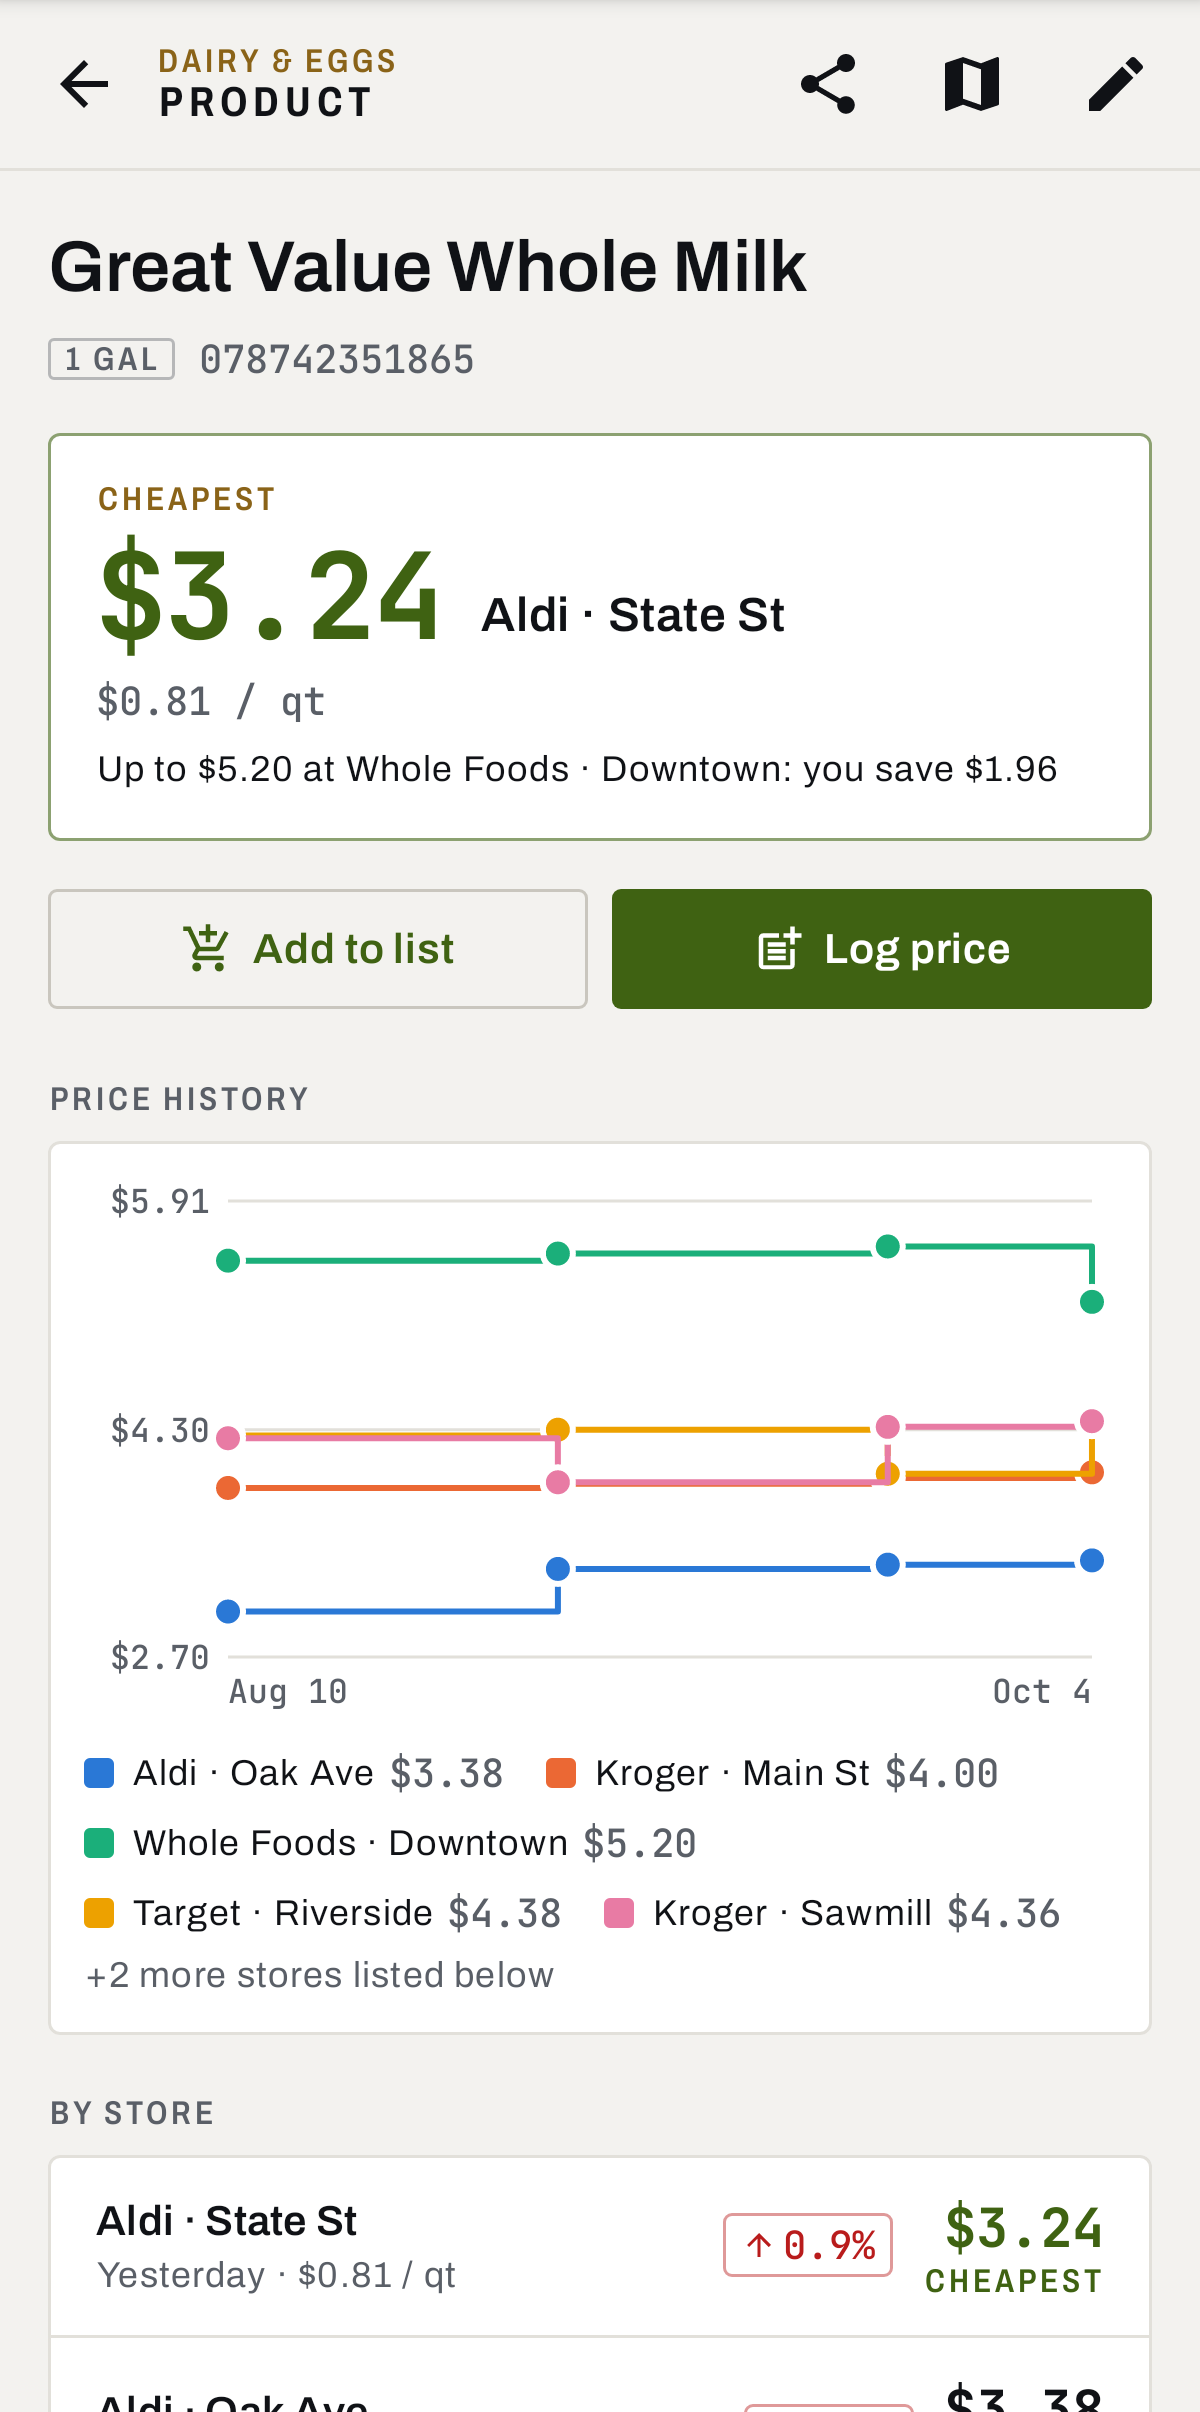
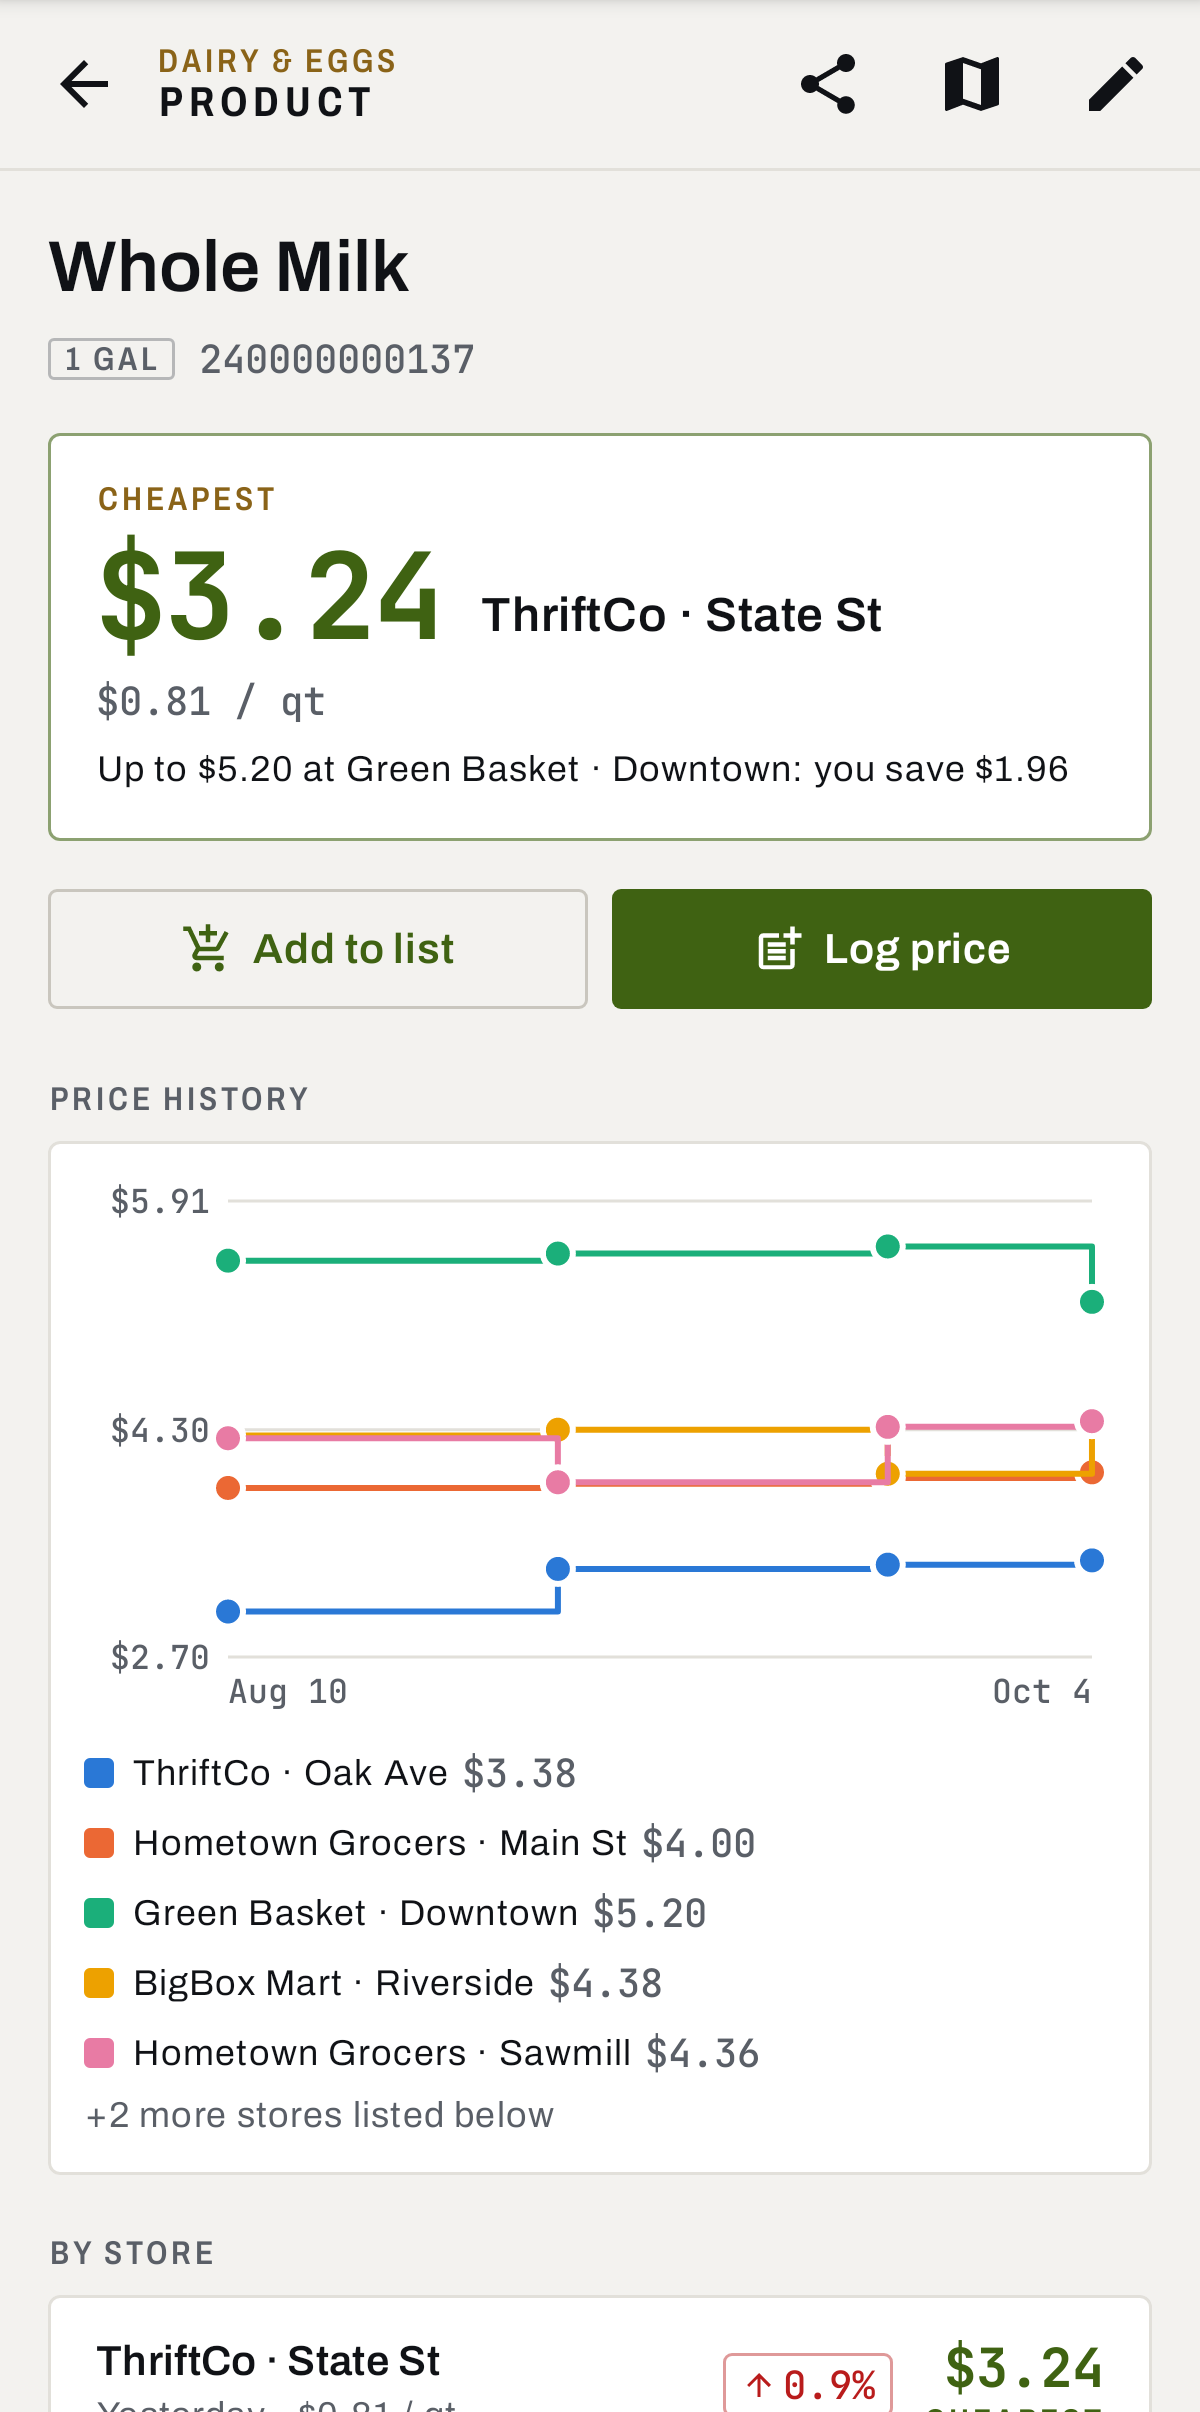
Use fictional stores and generic products in sample data and screenshots
Sample prices are invented, so attaching them to real retailers and brands in screenshots reads as real price claims. Stores are now ThriftCo, Hometown Grocers, BigBox Mart and Green Basket, products are generic, and barcodes use the in-store 2xxxxx range.

diff --git a/app/src/main/java/com/amniscient/price/data/DemoSeeder.kt b/app/src/main/java/com/amniscient/price/data/DemoSeeder.kt
@@ -14,26 +14,26 @@ object DemoSeeder {
     private data class DemoStore(val chain: String, val branch: String, val position: LatLng, val region: String, val factor: Double)
 
     private val stores = listOf(
-        DemoStore("Aldi", "Oak Ave", LatLng(39.9790, -82.9650), "Columbus", 1.00),
-        DemoStore("Kroger", "Main St", LatLng(39.9560, -82.9900), "Columbus", 1.00),
-        DemoStore("Whole Foods", "Downtown", LatLng(39.9700, -83.0030), "Columbus", 1.00),
-        DemoStore("Target", "Riverside", LatLng(40.0990, -83.1140), "Dublin", 1.07),
-        DemoStore("Kroger", "Sawmill", LatLng(40.0880, -83.0900), "Dublin", 1.09),
-        DemoStore("Aldi", "State St", LatLng(40.1260, -82.9290), "Westerville", 0.96),
-        DemoStore("Kroger", "Polaris", LatLng(40.1450, -82.9800), "Westerville", 0.97),
+        DemoStore("ThriftCo", "Oak Ave", LatLng(39.9790, -82.9650), "Columbus", 1.00),
+        DemoStore("Hometown Grocers", "Main St", LatLng(39.9560, -82.9900), "Columbus", 1.00),
+        DemoStore("Green Basket", "Downtown", LatLng(39.9700, -83.0030), "Columbus", 1.00),
+        DemoStore("BigBox Mart", "Riverside", LatLng(40.0990, -83.1140), "Dublin", 1.07),
+        DemoStore("Hometown Grocers", "Sawmill", LatLng(40.0880, -83.0900), "Dublin", 1.09),
+        DemoStore("ThriftCo", "State St", LatLng(40.1260, -82.9290), "Westerville", 0.96),
+        DemoStore("Hometown Grocers", "Polaris", LatLng(40.1450, -82.9800), "Westerville", 0.97),
     )
 
     private val items = listOf(
-        Item("Great Value Whole Milk", "1 gal", "078742351865", mapOf("Aldi" to 329, "Kroger" to 389, "Target" to 399, "Whole Foods" to 549)),
-        Item("Large Eggs 12 ct", "12 ct", "011110038364", mapOf("Aldi" to 279, "Kroger" to 349, "Target" to 369, "Whole Foods" to 499)),
-        Item("Bananas", "1 lb", null, mapOf("Aldi" to 49, "Kroger" to 59, "Target" to 65, "Whole Foods" to 79)),
-        Item("Jif Creamy Peanut Butter", "16 oz", "051500255162", mapOf("Aldi" to 279, "Kroger" to 299, "Target" to 319)),
-        Item("Barilla Spaghetti", "16 oz", "076808280739", mapOf("Aldi" to 149, "Kroger" to 179, "Target" to 189, "Whole Foods" to 229)),
-        Item("Chicken Breast", "1 lb", null, mapOf("Aldi" to 299, "Kroger" to 349, "Whole Foods" to 699)),
-        Item("Tide Pods 42 ct", "42 ct", "037000930389", mapOf("Kroger" to 1399, "Target" to 1299)),
-        Item("Whole Wheat Bread", "20 oz", "072250037129", mapOf("Aldi" to 189, "Kroger" to 249, "Target" to 279, "Whole Foods" to 449)),
-        Item("Coca-Cola 12 pack", "12 pack", "049000028911", mapOf("Kroger" to 749, "Target" to 699, "Aldi" to 649)),
-        Item("Haas Avocados", "4 ct", null, mapOf("Aldi" to 349, "Kroger" to 399, "Whole Foods" to 499)),
+        Item("Whole Milk", "1 gal", "240000000137", mapOf("ThriftCo" to 329, "Hometown Grocers" to 389, "BigBox Mart" to 399, "Green Basket" to 549)),
+        Item("Large Eggs 12 ct", "12 ct", "240000000274", mapOf("ThriftCo" to 279, "Hometown Grocers" to 349, "BigBox Mart" to 369, "Green Basket" to 499)),
+        Item("Bananas", "1 lb", null, mapOf("ThriftCo" to 49, "Hometown Grocers" to 59, "BigBox Mart" to 65, "Green Basket" to 79)),
+        Item("Creamy Peanut Butter", "16 oz", "240000000411", mapOf("ThriftCo" to 279, "Hometown Grocers" to 299, "BigBox Mart" to 319)),
+        Item("Spaghetti", "16 oz", "240000000548", mapOf("ThriftCo" to 149, "Hometown Grocers" to 179, "BigBox Mart" to 189, "Green Basket" to 229)),
+        Item("Chicken Breast", "1 lb", null, mapOf("ThriftCo" to 299, "Hometown Grocers" to 349, "Green Basket" to 699)),
+        Item("Laundry Pods 42 ct", "42 ct", "240000000685", mapOf("Hometown Grocers" to 1399, "BigBox Mart" to 1299)),
+        Item("Whole Wheat Bread", "20 oz", "240000000822", mapOf("ThriftCo" to 189, "Hometown Grocers" to 249, "BigBox Mart" to 279, "Green Basket" to 449)),
+        Item("Cola 12 pack", "12 pack", "240000000959", mapOf("Hometown Grocers" to 749, "BigBox Mart" to 699, "ThriftCo" to 649)),
+        Item("Hass Avocados", "4 ct", null, mapOf("ThriftCo" to 349, "Hometown Grocers" to 399, "Green Basket" to 499)),
     )
 
     suspend fun seed(repository: PriceRepository, now: Long = System.currentTimeMillis()) {
@@ -63,7 +63,7 @@ object DemoSeeder {
             }
         }
         repository.recordAll(inputs)
-        listOf("Great Value Whole Milk", "Large Eggs 12 ct", "Bananas", "Tide Pods 42 ct", "Barilla Spaghetti", "Coffee filters")
+        listOf("Whole Milk", "Large Eggs 12 ct", "Bananas", "Laundry Pods 42 ct", "Spaghetti", "Coffee filters")
             .forEach { repository.addToList(it) }
     }
 }

diff --git a/app/src/test/java/com/amniscient/price/screenshots/ScreenshotTest.kt b/app/src/test/java/com/amniscient/price/screenshots/ScreenshotTest.kt
@@ -57,7 +57,7 @@ class ScreenshotTest {
     @Before fun seed() = runBlocking {
         DemoSeeder.seed(container.repository)
         container.settings.setOnboarded()
-        val aldi = container.repository.allStores.first().first { it.name == "Kroger" }
+        val aldi = container.repository.allStores.first().first { it.name == "Hometown Grocers" }
         container.settings.setCurrentStore(aldi.id)
     }
 
@@ -123,7 +123,7 @@ class ScreenshotTest {
 
     @Test fun shelfReview() = shoot("10_shelf_review") {
         container.scanSession.pendingShelf = ShelfDraft(
-            productName = "Great Value Whole Milk", barcode = "078742351865", priceCents = 419, sizeText = "1 gal", fromScan = true,
+            productName = "Whole Milk", barcode = "240000000137", priceCents = 419, sizeText = "1 gal", fromScan = true,
         )
         ShelfReviewScreen(onDone = noop)
     }
@@ -131,9 +131,9 @@ class ScreenshotTest {
     @Test fun receiptReview() = shoot("11_receipt_review") {
         container.scanSession.pendingReceipt = ReceiptParser.parse(
             listOf(
-                "KROGER", "Main St", "10/03/26 14:22",
-                "GV WHL MLK 078742351865 F  3.99", "LG EGGS 12CT  3.49", "BANANAS  0.59",
-                "2 @ 1.79", "BARILLA SPAGHETTI  3.58", "COUPON  0.50-", "TOTAL  11.15",
+                "HOMETOWN GROCERS", "Main St", "10/03/26 14:22",
+                "WHL MILK 240000000137 F  3.99", "LG EGGS 12CT  3.49", "BANANAS  0.59",
+                "2 @ 1.79", "SPAGHETTI 16OZ  3.58", "COUPON  0.50-", "TOTAL  11.15",
             ),
         )
         ReceiptReviewScreen(onDone = noop)
